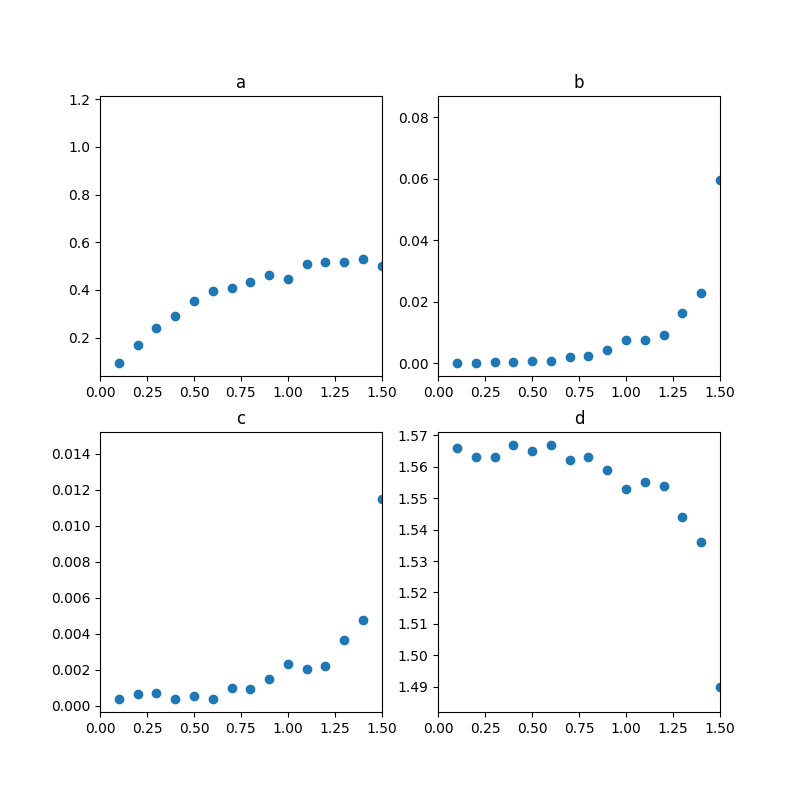
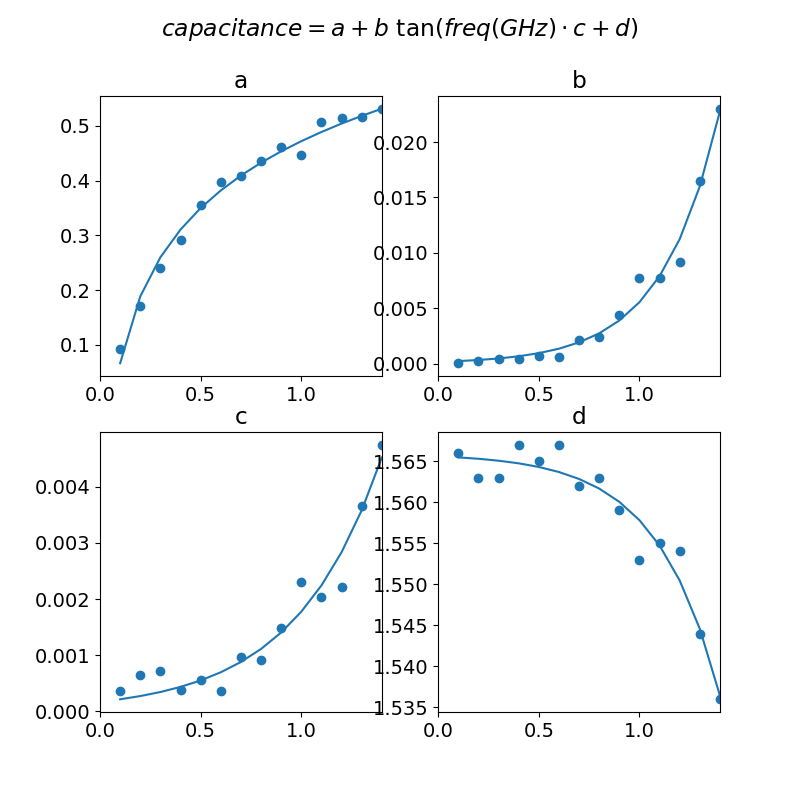
:+1: Update :

diff --git a/estimate.py b/estimate.py
@@ -1,34 +1,143 @@
+from cProfile import label
+from re import M
 import numpy as np
 import matplotlib.pyplot as plt
+from scipy.optimize import curve_fit
 
-x = [ 1.0,1.1,1.2,1.3,1.4,1.5,1.6,1.7,1.8,1.9,2.0,2.1,2.2,2.3,2.4,2.5,0.1,0.2,0.3,0.4,0.5,0.6,0.7,0.8,0.9]
-a = [ 0.446, 0.508, 0.515, 0.516, 0.530, 0.500, 0.527, 0.737, 0.756, 0.774, 0.728, 0.754, 0.785, 1.099, 1.133, 1.160, 0.092, 0.170, 0.241, 0.292, 0.355, 0.397, 0.408, 0.435, 0.462]
-b = [  7.759e-03, 7.715e-03, 9.215e-03, 1.648e-02, 2.301e-02, 5.973e-02, 6.705e-02, 6.072e-02, 6.549e-02, 6.380e-02, 6.880e-02, 8.282e-02, 7.863e-02, 6.886e-02, 7.643e-02, 7.962e-02, 3.410e-05, 2.088e-04, 4.287e-04, 3.791e-04, 7.252e-04, 6.110e-04, 2.152e-03, 2.388e-03, 4.369e-03]
-c = [ 2.307e-03, 2.033e-03, 2.215e-03, 3.652e-03, 4.747e-03, 1.150e-02, 1.248e-02, 1.229e-02, 1.264e-02, 1.179e-02, 1.165e-02, 1.360e-02, 1.256e-02, 1.348e-02, 1.443e-02, 1.450e-02, 3.710e-04, 6.529e-04, 7.254e-04, 3.748e-04, 5.633e-04, 3.578e-04, 9.738e-04, 9.192e-04, 1.486e-03]
-d = [ 1.553 , 1.555 , 1.554 , 1.544 , 1.536 , 1.490 , 1.486 , 1.489 , 1.488 , 1.496 , 1.498 , 1.488 , 1.496 , 1.494 , 1.490 , 1.491 , 1.566 , 1.563 , 1.563 , 1.567 , 1.565 , 1.567 , 1.562 , 1.563 , 1.559 ]
+# data
+x = np.array([ 1.0,1.1,1.2,1.3,1.4,1.5,1.6,1.7,1.8,1.9,2.0,2.1,2.2,2.3,2.4,2.5,0.1,0.2,0.3,0.4,0.5,0.6,0.7,0.8,0.9])
+a = np.array([ 0.446, 0.508, 0.515, 0.516, 0.530, 0.500, 0.527, 0.737, 0.756, 0.774, 0.728, 0.754, 0.785, 1.099, 1.133, 1.160, 0.092, 0.170, 0.241, 0.292, 0.355, 0.397, 0.408, 0.435, 0.462])
+b = np.array([  7.759e-03, 7.715e-03, 9.215e-03, 1.648e-02, 2.301e-02, 5.973e-02, 6.705e-02, 6.072e-02, 6.549e-02, 6.380e-02, 6.880e-02, 8.282e-02, 7.863e-02, 6.886e-02, 7.643e-02, 7.962e-02, 3.410e-05, 2.088e-04, 4.287e-04, 3.791e-04, 7.252e-04, 6.110e-04, 2.152e-03, 2.388e-03, 4.369e-03])
+c = np.array([ 2.307e-03, 2.033e-03, 2.215e-03, 3.652e-03, 4.747e-03, 1.150e-02, 1.248e-02, 1.229e-02, 1.264e-02, 1.179e-02, 1.165e-02, 1.360e-02, 1.256e-02, 1.348e-02, 1.443e-02, 1.450e-02, 3.710e-04, 6.529e-04, 7.254e-04, 3.748e-04, 5.633e-04, 3.578e-04, 9.738e-04, 9.192e-04, 1.486e-03])
+d = np.array([ 1.553 , 1.555 , 1.554 , 1.544 , 1.536 , 1.490 , 1.486 , 1.489 , 1.488 , 1.496 , 1.498 , 1.488 , 1.496 , 1.494 , 1.490 , 1.491 , 1.566 , 1.563 , 1.563 , 1.567 , 1.565 , 1.567 , 1.562 , 1.563 , 1.559 ])
+
+# limit capacitor range
+x_max = 1.4
+
+a = a[x <= x_max]
+b = b[x <= x_max]
+c = c[x <= x_max]
+d = d[x <= x_max]
+x = x[x <= x_max]
+
+# sort
+a = a[x.argsort()]
+b = b[x.argsort()]
+c = c[x.argsort()]
+d = d[x.argsort()]
+x = x[x.argsort()]
+
+
+def fa(x, a, b, c):
+    return a * np.log(b*x) + c
+
+def fb(x, a, b):
+    return a * np.exp(b*x)
+
+def fc(x, a, b):
+    return a * np.exp(b*x)
+
+def fd(x, a, b, c):
+    return a * np.exp(b*x) + c
 
 plt.figure(figsize=(8,8))
+plt.rcParams["font.size"] = 14
+plt.suptitle(r'$capacitance = a + b \ \tan(freq(GHz) \cdot c + d)$')
+
 plt.subplot(221)
 plt.title('a')
-plt.xlim(0, 1.5)
+plt.xlim(0, x_max)
 plt.scatter(x, a)
+
+popt_a, pcov = curve_fit(fa, x, a, maxfev=int(1e5))
+plt.plot(x, fa(x, *popt_a))
+print(popt_a)
 
 plt.subplot(222)
 plt.title('b')
-plt.xlim(0, 1.5)
+plt.xlim(0, x_max)
 plt.scatter(x, b)
+
+popt_b, pcov = curve_fit(fb, x, b, maxfev=int(1e5))
+plt.plot(x, fb(x, *popt_b))
+print(popt_b)
 
 plt.subplot(223)
 plt.title('c')
-plt.xlim(0, 1.5)
+plt.xlim(0, x_max)
 plt.scatter(x, c)
+
+popt_c, pcov = curve_fit(fc, x, c, maxfev=int(1e5))
+plt.plot(x, fc(x, *popt_c))
+print(popt_c)
 
 plt.subplot(224)
 plt.title('d')
-plt.xlim(0, 1.5)
+plt.xlim(0, x_max)
 plt.scatter(x, d)
 
+popt_d, pcov = curve_fit(fd, x, d, maxfev=int(1e5))
+plt.plot(x, fd(x, *popt_d))
+print(popt_d)
 
 # plt.legend()
-# plt.show()
 plt.savefig('est.png')
+# plt.show()
+
+plt.clf()
+
+##### copare 'simsurfing' data #####
+import csv
+
+refs = [
+    'csv/GJM1555C1HR80BB01_InProduction.csv',
+    'csv/GJM1555C1H1R1BB01_InProduction.csv'
+]
+
+caps = [0.79, 0.8, 0.81] # pF
+
+for r in refs:
+    with open(r) as f:
+            reader = csv.reader(f)
+
+            # skip sharp '#'
+            header = reader.__next__()
+
+            while header[0][0] == '#':
+                header = reader.__next__()
+
+
+            freq = np.array([])
+            cap  = np.array([])
+
+            for row in reader:
+                freq = np.append(freq, float(row[0]))
+                cap  = np.append(cap , float(row[1]))
+
+            freq /= 1e9
+            cap *= 1e12
+
+            plt.scatter(freq[::5], cap[::5], label=r, marker='x')
+
+
+def y(f, cap):
+    a_ = fa(cap, *popt_a)
+    b_ = fb(cap, *popt_b)
+    c_ = fc(cap, *popt_c)
+    d_ = fd(cap, *popt_d) 
+
+    return a_ + b_ * np.tan(np.multiply(f, c_) + d_)
+
+f = np.linspace(1, 6, 1000)
+
+for c in caps:
+    plt.plot(f, y(f,c), label='{} pF'.format(c))
+
+plt.rcParams["font.size"] = 14
+plt.xlim(1, 6)
+plt.ylim(0.5, 2)
+plt.xlabel('Frequency (GHz)')
+plt.ylabel('Capacitance (pF)')
+plt.legend()
+plt.savefig('est2.png')
+# plt.show()

diff --git a/split_cap.py b/split_cap.py
@@ -1,0 +1,4 @@
+from skrf import *
+
+print('hello')
+
